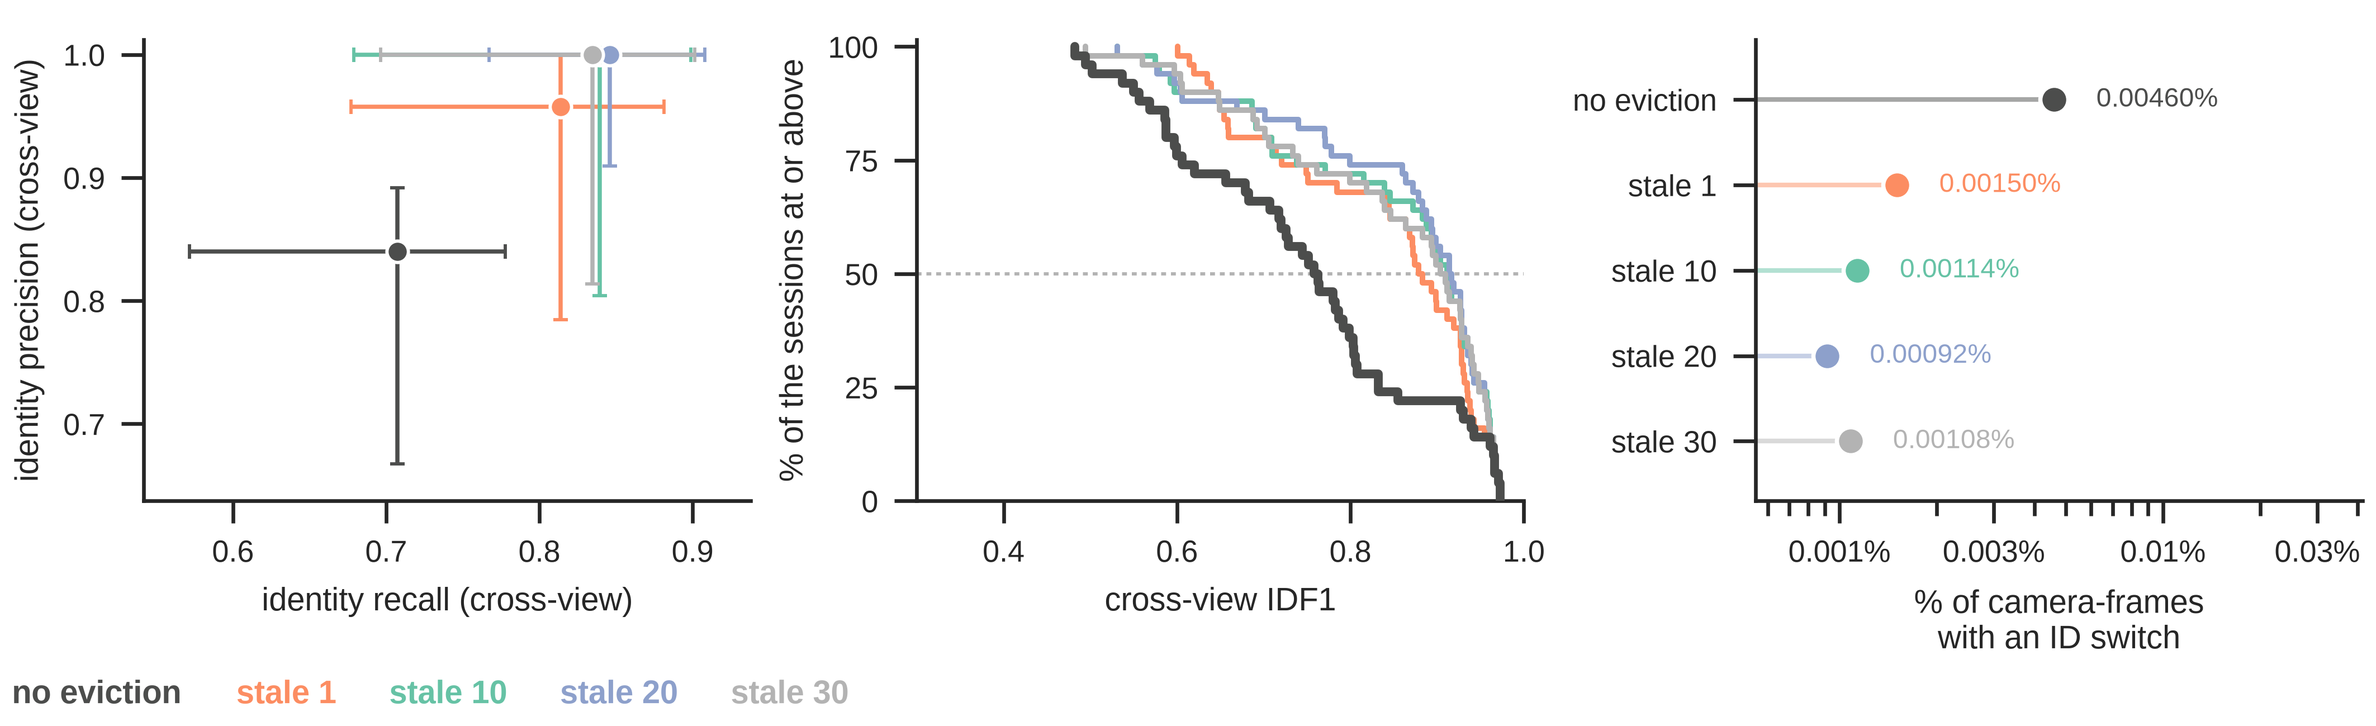
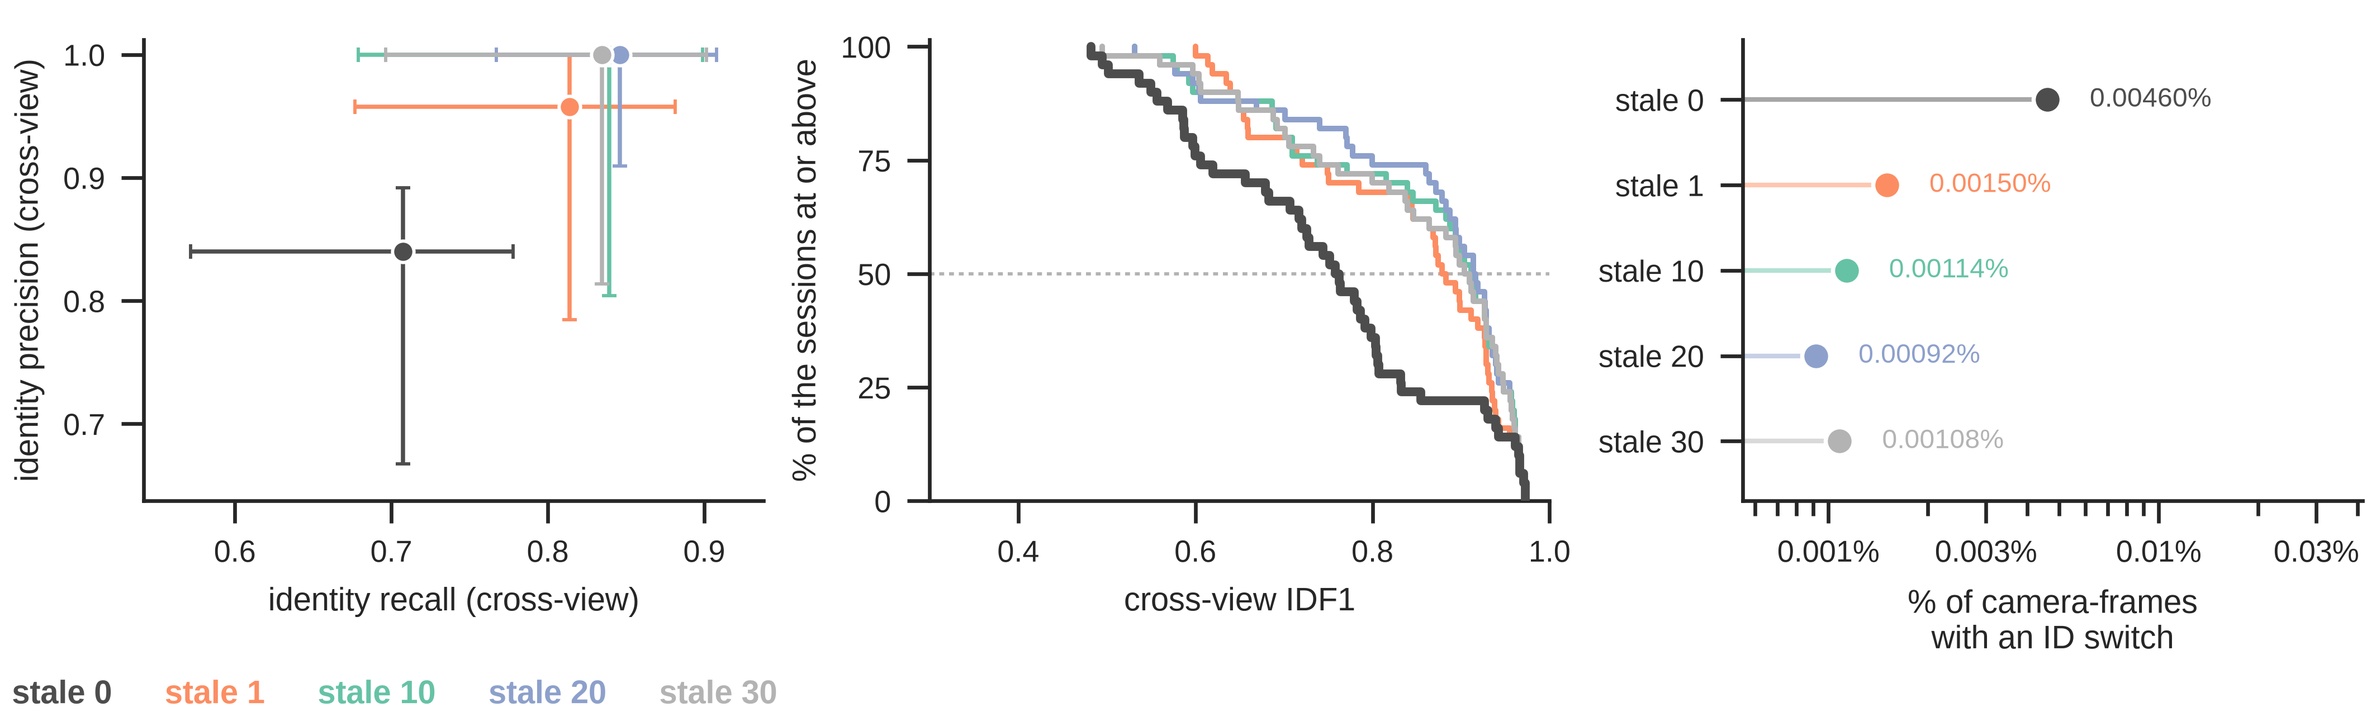
figs: the staleness sections are a parameter study, not a history
Eric: 'why mention an obsolete tracker at all?' -- correct, and 'stale' is a
live parameter of the shipped tracker (default 20, 0 disables eviction), so the
sweep is a study of a knob the reader can set. Nothing needs to refer to a
superseded build.

  L334  Methods title 'Anchor staleness and the fresh-anchor tracker'
        -> 'The staleness horizon of the 3D anchor'
  L336  passage recast: 'The browser port as first written retained ... and the
        browser port reproduced that behavior' is gone. It now defines N, states
        that N = 0 is the no-expiry limit, and keeps Chen's Eq. 11 attenuation as
        the principle a finite N approximates. The loader-hook / 'reproduced the
        unevicted baseline bit-identically' provenance is gone; the distance
        threshold is 'swept at 50 and 25' rather than 'reduced from 50 to 25'.
  L374  'Because the tracker as originally ported re-triangulated ...' -> 'With
        the staleness horizon disabled (N = 0) ...', headline restated as a
        comparison between two settings of N
  L376  'from no eviction to any eviction' -> 'from N = 0 to any finite horizon'
  L381  caption title -> 'the staleness horizon of the 3D anchor'; raw totals
        read 'at stale 0, 1, 10, 20 and 30' instead of naming one '(no eviction)'

On the artwork: the Fig 6F key entry 'no eviction' -> 'stale 0' and the panel
title 'Fresh anchor parameter sweep' -> 'Staleness horizon sweep', so the key
reads as one parameter axis. Fig 6 rebuilt.
[…]

diff --git a/figs/figures/drafts/luc3d_newest.tex b/figs/figures/drafts/luc3d_newest.tex
@@ -331,9 +331,9 @@ SLEAP was re-run with the track count capped at the true animal count. The origi
 
 ByteTrack was re-run with track retirement disabled, setting \texttt{lost\_track\_buffer} to the session length against the shipped 60 frames (2~s), which retires a track on any longer occlusion, and its output was then reduced to two identities by a greedy, tracklet-whole stitch that uses no ground truth: each ByteTrack id is bound at birth to one of two slots, the slot whose last-seen box is nearest the tracklet's first box (intersection-over-union first, centroid distance as the tie-break), among slots not held by an id alive in the same frame, and keeps that slot for life, so ByteTrack's own association is untouched. The never-retire knob alone reaches within-view IDF1 0.272; with the stitch, 0.676. Two gates anchor the re-runs to the shipped measurement: re-scoring the shipped ByteTrack arm through the re-run's scorer reproduces the reference evaluation to a maximum absolute difference of 0.0 on all 50 sessions, and re-running one camera-session at the shipped parameters under the pinned library version reproduces the stored output cell for cell.
 
-\subsection{Anchor staleness and the fresh-anchor tracker}\label{methods-anchor}
+\subsection{The staleness horizon of the 3D anchor}\label{methods-anchor}
 
-The cross-view tracker follows the tracking-by-3D-consensus design of \citep{Chen2020}. The browser port as first written retained, for every identity and every camera, the last detection matched to that identity, and re-triangulated the identity's 3D anchor from all retained detections with no age limit. Chen et al (2020) \citep{Chen2020} instead attenuate each retained point's contribution to the incremental triangulation exponentially with its age (their Eq.~11), but the reference implementation computes those weights without applying them, so retained detections of any age entered the anchor at full strength, and the browser port reproduced that behavior. We note additionally that the reference computes the weight with inverted sign, so that older points would receive larger weights were the routine completed as written. Logging the age of every detection entering a re-triangulation over eight Mouse-Dyad-10M sessions gave per-session mean ages of 3.0 to 49.8 frames and maxima of 844 to 8,652 frames, about five minutes of recording. Three coordinated changes were evaluated against that defect. Staleness eviction deletes, at the start of each frame, every retained detection older than $N$ frames, with $N$ swept over 1, 10, 20 and 30, so an anchor can be triangulated only from cameras that saw the animal recently, which is the step-function limit of the exponential attenuation of 3D correspondence; a target left with fewer than two retained detections keeps its last anchor but stops being re-triangulated, and an animal lost outright re-enters through the epipolar initialization path rather than by bidding from an obsolete position. Synchronous scoring, written M1, snapshots every anchor at frame start, scores all views against the snapshot and re-triangulates once at frame end, so a wrong assignment in one view cannot contaminate the evidence the remaining views are scored against and the result no longer depends on camera order. The distance threshold of the 3D term was reduced from 50 to 25, tightening the acceptance region around any anchor that does freeze. The assignment algorithm itself was unchanged, so every effect arises from the evidence entering the affinity computation. The evicting configuration these runs selected is the one the application now ships, merged into \texttt{pose/cross-view-tracker.js} itself. All configurations were run on the 50 proofread Mouse-Dyad-10M sessions with identical per-camera detections, in a harness that overlays each candidate on the production module through a loader hook; before any comparison the harness reproduced the unevicted baseline's deposited 50-session result bit-identically. Paired comparisons across the 50 sessions used the two-sided Wilcoxon signed-rank test.
+The cross-view tracker follows the tracking-by-3D-consensus design of \citep{Chen2020}. It retains, for every identity and every camera, the last detection matched to that identity, and re-triangulates the identity's 3D anchor from those retained detections. The staleness parameter $N$ sets how long a retained detection stays eligible: at the start of each frame every retained detection older than $N$ frames is deleted, and at $N = 0$ none ever expires, so an anchor can be built from detections of any age. That limit is the one worth naming, because the 3D affinity term carries no temporal attenuation of its own. Logging the age of every detection entering a re-triangulation over eight Mouse-Dyad-10M sessions gave per-session mean ages of 3.0 to 49.8 frames and maxima of 844 to 8,652 frames, about five minutes of recording, so at $N = 0$ an identity that has lost its animal can keep bidding at full strength from a position it last held minutes earlier. Chen et al (2020) \citep{Chen2020} attenuate each retained point's contribution to the incremental triangulation exponentially with its age (their Eq.~11); a finite $N$ is the step-function limit of that attenuation. Three coordinated settings were evaluated. $N$ was swept over 0, 1, 10, 20 and 30, so that at any finite horizon an anchor is triangulated only from cameras that saw the animal recently; a target left with fewer than two retained detections keeps its last anchor but stops being re-triangulated, and an animal lost outright re-enters through the epipolar initialization path rather than by bidding from an obsolete position. Synchronous scoring, written M1, snapshots every anchor at frame start, scores all views against the snapshot and re-triangulates once at frame end, so a wrong assignment in one view cannot contaminate the evidence the remaining views are scored against and the result does not depend on camera order. The third setting is the 3D term's distance threshold, swept at 50 and 25, the tighter value narrowing the acceptance region around any anchor that does freeze. The assignment algorithm is identical across every setting, so all of the effect arises from the evidence entering the affinity computation, and the application ships the combination these runs selected, $N = 20$ with a threshold of 25 and synchronous scoring. All configurations were run on the 50 proofread Mouse-Dyad-10M sessions with identical per-camera detections, with every setting applied to the same tracker module, so the arms differ only in the parameters named above. Paired comparisons across the 50 sessions used the two-sided Wilcoxon signed-rank test.
 
 \subsection{Statistics}\label{methods-stats}
 
@@ -371,14 +371,14 @@ There is a cost. LUC3D fragments tracks more than SLEAP does, by a mean of 3.2 f
 
 \subsection{Stale evidence in the 3D anchor is the dominant switch mechanism}\label{subsec2-9}
 
-The identity errors that dominate the tracker's remaining deficit have a single cause, and it is visible in the parameter sweep of Supplementary Figure~\ref{fig6}F. Because the tracker as originally ported re-triangulated an identity's 3D anchor from retained detections of any age, and because the 3D affinity term carried no temporal attenuation, an identity that had lost its animal minutes earlier kept bidding at full strength from the last available position. When the other animal passes through that position the joint assignment concedes it, and with no appearance cue available the swap is introduced. Evicting retained detections older than $N$ frames before matching, together with synchronous per-frame scoring and the tightened 3D distance threshold, reduced within-view identity switches from 2,071 to 413, from 0.0046 to 0.0009 per cent of camera-frames, at $N = 20$, and raised mean cross-view IDF1 from 0.749 to 0.861 across the 50 sessions. At the shipped $N = 20$ the median session rises from 0.760 to 0.915; 38 of the 50 sessions improved and 8 worsened (two-sided paired Wilcoxon, $P = 1.7 \times 10^{-6}$), and the neighbouring window $N = 10$ gives 511 switches and mean IDF1 0.850, and the margin over the best pure re-tuning of the unevicted tracker was a median of 0.078 IDF1 ($P = 2.7 \times 10^{-5}$) (See Supplementary Figure~\ref{fig6}F).
+The identity errors that dominate the tracker's remaining deficit have a single cause, and it is visible in the parameter sweep of Supplementary Figure~\ref{fig6}F. With the staleness horizon disabled ($N = 0$), an identity's 3D anchor is re-triangulated from retained detections of any age, and because the 3D affinity term carries no temporal attenuation of its own, an identity that lost its animal minutes earlier keeps bidding at full strength from the last position it held. When the other animal passes through that position the joint assignment concedes it, and with no appearance cue available the swap is introduced. At $N = 20$, with synchronous per-frame scoring and the tighter 3D distance threshold, the 50 sessions hold 413 within-view identity switches against 2,071 at $N = 0$, 0.0009 against 0.0046 per cent of camera-frames, at a mean cross-view IDF1 of 0.861 against 0.749. At the shipped $N = 20$ the median session rises from 0.760 to 0.915; 38 of the 50 sessions improved and 8 worsened (two-sided paired Wilcoxon, $P = 1.7 \times 10^{-6}$), and the neighbouring window $N = 10$ gives 511 switches and mean IDF1 0.850, and the margin over the best re-tuning that leaves $N = 0$ was a median of 0.078 IDF1 ($P = 2.7 \times 10^{-5}$) (See Supplementary Figure~\ref{fig6}F).
 
-Two features of the sweep argue that the effect is specific to anchor freshness rather than to any particular setting. The eviction windows are nearly indistinguishable from one another, and their order is not stable: $N = 1$ and $N = 10$ reverse between an eight-session pilot and the 50-session benchmark (0.839 against 0.850, $P = 0.8$), so the material step is from no eviction to any eviction rather than the choice of window. Traversing the same axis in the opposite direction is monotonically harmful across four orders of magnitude, with exponential smoothing of the anchor raising switches to roughly 2,800 and freezing the anchor on low-margin frames giving roughly 1,700 at margin 100 and 27,042 at margin 400. The application ships $N = 20$, which is best on every aggregate and on the harm profile alike: 413 switches against 511 at $N = 10$, mean cross-view IDF1 0.861 against 0.850 and median 0.915 against 0.913, and 8 rather than 10 of the 50 sessions worsened, its one cost being a deeper worst single-session change ($-0.183$ against $-0.138$). The mechanism corrects an implementation omission rather than introducing a new principle: the omitted age weighting is benign over the 0 to 300~ms that retained points span in the original setting, and dominant at behavioral time scales, where occlusions leave evidence stale for minutes.
+Two features of the sweep argue that the effect is specific to anchor freshness rather than to any particular setting. The eviction windows are nearly indistinguishable from one another, and their order is not stable: $N = 1$ and $N = 10$ reverse between an eight-session pilot and the 50-session benchmark (0.839 against 0.850, $P = 0.8$), so the material step is from $N = 0$ to any finite horizon rather than the choice of window. Traversing the same axis in the opposite direction is monotonically harmful across four orders of magnitude, with exponential smoothing of the anchor raising switches to roughly 2,800 and freezing the anchor on low-margin frames giving roughly 1,700 at margin 100 and 27,042 at margin 400. The application ships $N = 20$, which is best on every aggregate and on the harm profile alike: 413 switches against 511 at $N = 10$, mean cross-view IDF1 0.861 against 0.850 and median 0.915 against 0.913, and 8 rather than 10 of the 50 sessions worsened, its one cost being a deeper worst single-session change ($-0.183$ against $-0.138$). The mechanism corrects an implementation omission rather than introducing a new principle: the omitted age weighting is benign over the 0 to 300~ms that retained points span in the original setting, and dominant at behavioral time scales, where occlusions leave evidence stale for minutes.
 
 \begin{figure}[!htb]
   \centering
   \includegraphics[height=.49\textheight]{figs/fig6.pdf}
-  \caption{\textbf{Cross-view identity, and the fresh-anchor staleness horizon.} \textbf{A}, Within-view against cross-view IDF1, mean +- 95\% bootstrap CI over sessions: LUC3D 0.861 to 0.861 (stale 20, distThresh 25, synchronous scoring), SLEAP 0.642 to 0.146, ByteTrack 0.676 to 0.157. The dashed rule at 1/C = 0.20 is the camera-scoped pooling convention for a per-camera tracker, not a chance level. \textbf{B}, Within-view IDF1 as a survival curve, one step per session, each session's IDF1 the mean over its 6 cameras; at 0.9 or above, 40, 22 and 10 of 74 (LUC3D, SLEAP, ByteTrack). \textbf{C}, Paired within-view difference, LUC3D minus SLEAP, by animal count. Boxes, the per-session differences (median, IQR, whiskers 1.5x IQR; every session also a dot): medians +0.143, +0.068, -0.039, -0.028 at 1 to 4 animals (paired means +0.142, +0.089, -0.043, -0.041), LUC3D winning 25/32, 31/35, 0/4 and 0/3 sessions; over 2 animals, mean +0.067 (n = 42, 31/42, P = 0.003). \textbf{D}, False positives and ID switches as percentages of camera-frames: 0.317, 0.531, 0.435\% and 0.0112, 0.0308, 0.105\%. False negatives (98.8-99.3\% of each budget) are not plotted. \textbf{E}, The tracker's two association cost terms on one real frame (drawn in the style of Chen et al., 2020): the 2D term against the retained per-view 2D anchor (the dashed translucent blue outline pose), and the 3D term as the detection's back-projected ray against the 3D anchor node. The retained anchor is what panel F's staleness window evicts. \textbf{F}, The fresh-anchor parameter sweep, all 50 proofread Mouse-Dyad-10M sessions, 45,021,960 camera-frames, sessions paired across parameter sets; every candidate is M1 + distThresh 25 + the stale window named in the key. Left, the identity precision-recall plane: one operating point per parameter set at the across-session median (identity recall x, identity precision y), whiskers the IQR on both axes (operating points, not a swept curve: this detection pool has no score to threshold). Middle, cross-view IDF1 as a survival curve. Right, ID switches as a percentage of camera-frames; the raw totals behind the percentages are 2,071 (no eviction), 677, 511, 413 and 487 (stale 1, 10, 20, 30) -- no eviction 0.00460\% against stale 20 at 0.00092\%, 80\% lower, with median cross-view IDF1 0.7604 to 0.9153. A, 50 Mouse-Dyad-10M sessions; B to D, all 74 SLAP-2M sessions, 11,726,640 camera-frames; E is one frame of a two-animal SLAP-2M session; F, the 50 proofread Mouse-Dyad-10M sessions. The tracker key under panels A to D (LUC3D teal, SLEAP periwinkle, ByteTrack orange) names the three colours once for all four panels; F's parameter-set key is the strip along its own bottom.}
+  \caption{\textbf{Cross-view identity, and the staleness horizon of the 3D anchor.} \textbf{A}, Within-view against cross-view IDF1, mean +- 95\% bootstrap CI over sessions: LUC3D 0.861 to 0.861 (stale 20, distThresh 25, synchronous scoring), SLEAP 0.642 to 0.146, ByteTrack 0.676 to 0.157. The dashed rule at 1/C = 0.20 is the camera-scoped pooling convention for a per-camera tracker, not a chance level. \textbf{B}, Within-view IDF1 as a survival curve, one step per session, each session's IDF1 the mean over its 6 cameras; at 0.9 or above, 40, 22 and 10 of 74 (LUC3D, SLEAP, ByteTrack). \textbf{C}, Paired within-view difference, LUC3D minus SLEAP, by animal count. Boxes, the per-session differences (median, IQR, whiskers 1.5x IQR; every session also a dot): medians +0.143, +0.068, -0.039, -0.028 at 1 to 4 animals (paired means +0.142, +0.089, -0.043, -0.041), LUC3D winning 25/32, 31/35, 0/4 and 0/3 sessions; over 2 animals, mean +0.067 (n = 42, 31/42, P = 0.003). \textbf{D}, False positives and ID switches as percentages of camera-frames: 0.317, 0.531, 0.435\% and 0.0112, 0.0308, 0.105\%. False negatives (98.8-99.3\% of each budget) are not plotted. \textbf{E}, The tracker's two association cost terms on one real frame (drawn in the style of Chen et al., 2020): the 2D term against the retained per-view 2D anchor (the dashed translucent blue outline pose), and the 3D term as the detection's back-projected ray against the 3D anchor node. The retained anchor is what panel F's staleness window evicts. \textbf{F}, The fresh-anchor parameter sweep, all 50 proofread Mouse-Dyad-10M sessions, 45,021,960 camera-frames, sessions paired across parameter sets; every candidate is M1 + distThresh 25 + the stale window named in the key. Left, the identity precision-recall plane: one operating point per parameter set at the across-session median (identity recall x, identity precision y), whiskers the IQR on both axes (operating points, not a swept curve: this detection pool has no score to threshold). Middle, cross-view IDF1 as a survival curve. Right, ID switches as a percentage of camera-frames; the raw totals behind the percentages are 2,071, 677, 511, 413 and 487 at stale 0, 1, 10, 20 and 30 -- stale 0 at 0.00460\% against stale 20 at 0.00092\%, 80\% lower, with median cross-view IDF1 0.7604 to 0.9153. A, 50 Mouse-Dyad-10M sessions; B to D, all 74 SLAP-2M sessions, 11,726,640 camera-frames; E is one frame of a two-animal SLAP-2M session; F, the 50 proofread Mouse-Dyad-10M sessions. The tracker key under panels A to D (LUC3D teal, SLEAP periwinkle, ByteTrack orange) names the three colours once for all four panels; F's parameter-set key is the strip along its own bottom.}
   \label{fig6}
 \end{figure}
 

diff --git a/figs/panels/fig6_07_pr_switches.py b/figs/panels/fig6_07_pr_switches.py
@@ -111,7 +111,7 @@ from src.style import (GREY, INK, MUTED, PERIWINKLE, SALMON, TEAL,  # noqa: E402
 #: common to all four candidates, so they belong in the caption; what varies between
 #: them, and the only thing the reader has to tell apart, is the staleness horizon.
 SERIES = [
-    ("shipped", "no eviction", INK),
+    ("shipped", "stale 0", INK),
     ("sync_stale1_dist25", "stale 1", SALMON),
     ("sync_stale10_dist25", "stale 10", TEAL),
     ("sync_stale20_dist25", "stale 20", PERIWINKLE),

diff --git a/figs/assemble.py b/figs/assemble.py
@@ -140,7 +140,7 @@ TITLES = {
     (6, "c"): "Per-session paired difference",
     (6, "d"): "Error composition",
     (6, "e"): "The tracker's 2D and 3D anchor correspondence",
-    (6, "f"): "Fresh anchor parameter sweep on Mouse-Dyad-10M Sessions",
+    (6, "f"): "Staleness horizon sweep on Mouse-Dyad-10M sessions",
 }
 TITLE_PT = 7.5            # panel titles, below the 9 pt letter
 

diff --git a/figs/figures/drafts/TEX-CHANGES-SHIPPED-TRACKER.md b/figs/figures/drafts/TEX-CHANGES-SHIPPED-TRACKER.md
@@ -170,20 +170,42 @@ yours, not a lookup. Line numbers are current.
 
 ---
 
-## 5. What is deliberately still in the file
+## 5. The staleness passages are now a parameter study, not a history
 
-Three passages keep a before/after contrast because they are *about* the
-staleness fix, and removing it would make them incoherent:
+The first pass kept a before/after narrative in the two staleness sections on
+the grounds that they were "about the fix". Eric's call (2026-08-27): *"why
+mention an obsolete tracker at all?"* — and he is right, because `stale` is a
+live parameter of the shipped tracker with default 20, where **0 disables
+eviction**. So the sweep is a study of a knob the reader can set, and nothing in
+the paper needs to refer to a superseded build.
 
-- **Methods, anchor staleness (L334–336)** — the defect being corrected.
-- **Supplementary 5.2 (L372–376)** — the mechanism and the sweep's conclusion.
-- **The Fig 6F caption's no-eviction control (L381)** — panel F *is* the
-  staleness sweep; its control is the point of the panel.
+Rewritten accordingly:
 
-The Fig 6F panel title still reads "Fresh anchor parameter sweep on
-Mouse-Dyad-10M Sessions", which names the mechanism the sweep is about rather
-than a competing arm. Say the word if you would rather it read "Staleness
-horizon sweep".
+- **L334** — Methods subsection retitled *"Anchor staleness and the fresh-anchor
+  tracker"* -> *"The staleness horizon of the 3D anchor"*.
+- **L336** — the whole passage recast. *"The browser port as first written
+  retained … and the browser port reproduced that behavior"* is gone; it now
+  defines $N$, states that $N = 0$ is the no-expiry limit, and keeps Chen's
+  Eq. 11 attenuation as the principle a finite $N$ approximates. The
+  loader-hook/"reproduced the unevicted baseline bit-identically" provenance is
+  gone too, and the distance threshold is *"swept at 50 and 25"* rather than
+  *"reduced from 50 to 25"*.
+- **L374** — *"Because the tracker as originally ported re-triangulated …"* ->
+  *"With the staleness horizon disabled ($N = 0$) …"*, and the headline restated
+  as a comparison between two settings rather than a change the tracker
+  underwent.
+- **L376** — *"from no eviction to any eviction"* -> *"from $N = 0$ to any
+  finite horizon"*.
+- **L381** — Fig 6 caption title *"the fresh-anchor staleness horizon"* -> *"the
+  staleness horizon of the 3D anchor"*; the raw totals now read *"at stale 0, 1,
+  10, 20 and 30"* instead of singling one out as *"(no eviction)"*.
+- **On the artwork**: the Fig 6F key entry *"no eviction"* -> *"stale 0"*
+  (`panels/fig6_07_pr_switches.py`), and the panel title *"Fresh anchor
+  parameter sweep"* -> *"Staleness horizon sweep"* (`assemble.py`). The key now
+  reads as one parameter axis: stale 0, 1, 10, 20, 30.
+
+The file now contains **no** reference to a superseded tracker anywhere — the
+only surviving comparisons are between values of $N$.
 
 ---
 
